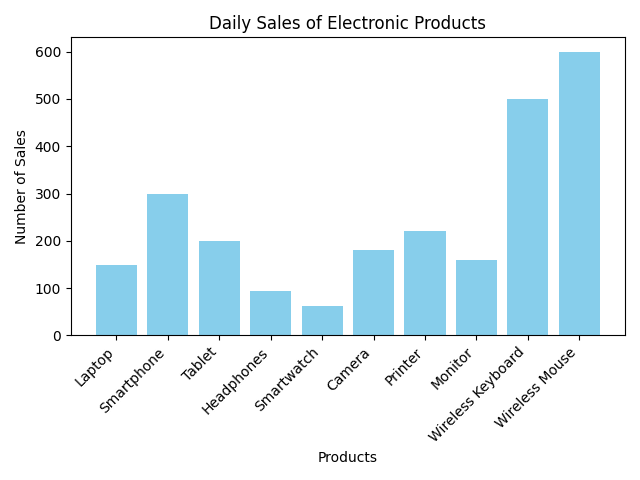
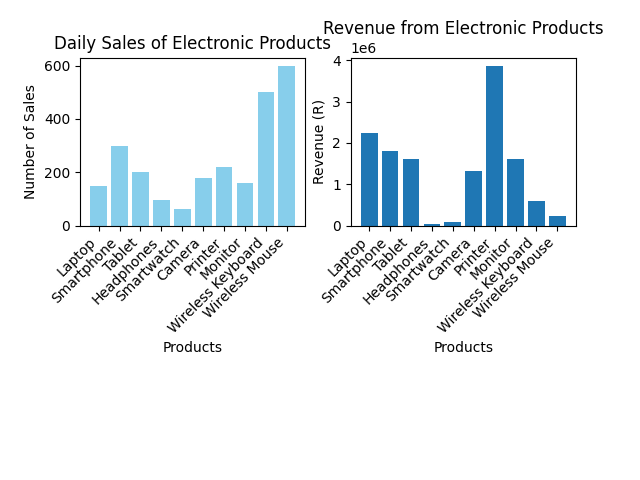
Display all charts in one figure using subplots

diff --git a/main.py b/main.py
@@ -11,18 +11,17 @@ def calculate_daily_sales():
     products = []
     daily_sales = []
 '''
+plt.figure()
 
 def plot_daily_sales(products, daily_sales):
+    plt.subplot(2, 2, 1)
     plt.title("Daily Sales of Electronic Products")
     plt.xlabel("Products")
     plt.ylabel("Number of Sales")
     plt.bar(products, daily_sales, color='skyblue')
     plt.xticks(rotation=45, ha='right')
-    plt.tight_layout()
     
     plt.savefig('charts/daily_sales.png')
-    
-    plt.show()
     
 def plot_sales_charts(products, prices, daily_sales):
    rev = []
@@ -30,16 +29,14 @@ def plot_sales_charts(products, prices, daily_sales):
    for price, sales in zip(prices, daily_sales):
     rev.append(price * sales)
 
-   plt.figure()
+   plt.subplot(2, 2, 2)
    plt.title("Revenue from Electronic Products")
    plt.xlabel("Products")
    plt.ylabel("Revenue (R)")
    plt.bar(products, rev)
    plt.xticks(rotation=45, ha='right')
-   plt.tight_layout()
    plt.savefig('charts/revenue.png')
 
-   plt.show()
    
 def sort_by_rev(item):
     return item [1]
@@ -59,13 +56,13 @@ def top_3_products_by_rev(products, prices, daily_sales):
         top_products.append(product)
         top_revenue.append(rev)
         
+    plt.subplot(2, 2, 3)
     plt.title("Top 3 Products Revanue")
     plt.xlabel("Products")
     plt.ylabel("Revanues (R)")
-    plt.bar(top_products, top_revenue, color="violet")
+    plt.bar(top_products, top_revenue, color="Green")
     
-    plt.show()
-    
+    plt.savefig('charts/top_3_revenue.png')
     
     '''
     print("Top 3 Products by Revenue:")
@@ -76,3 +73,6 @@ save_charts()
 plot_sales_charts(products, prices, daily_sales)
 plot_daily_sales(products, daily_sales)
 top_3_products_by_rev(products, prices, daily_sales)
+
+plt.tight_layout()
+plt.show()
